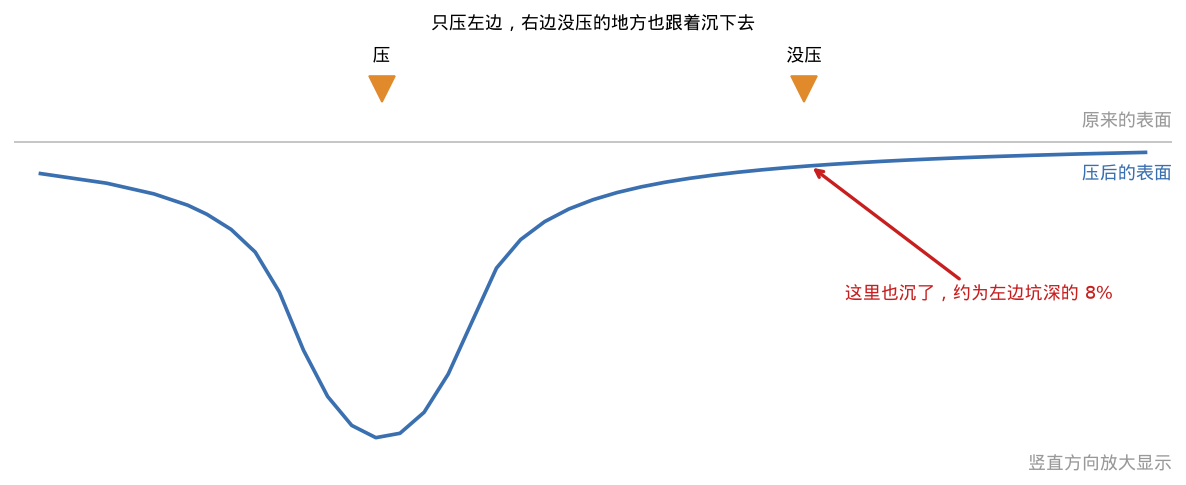
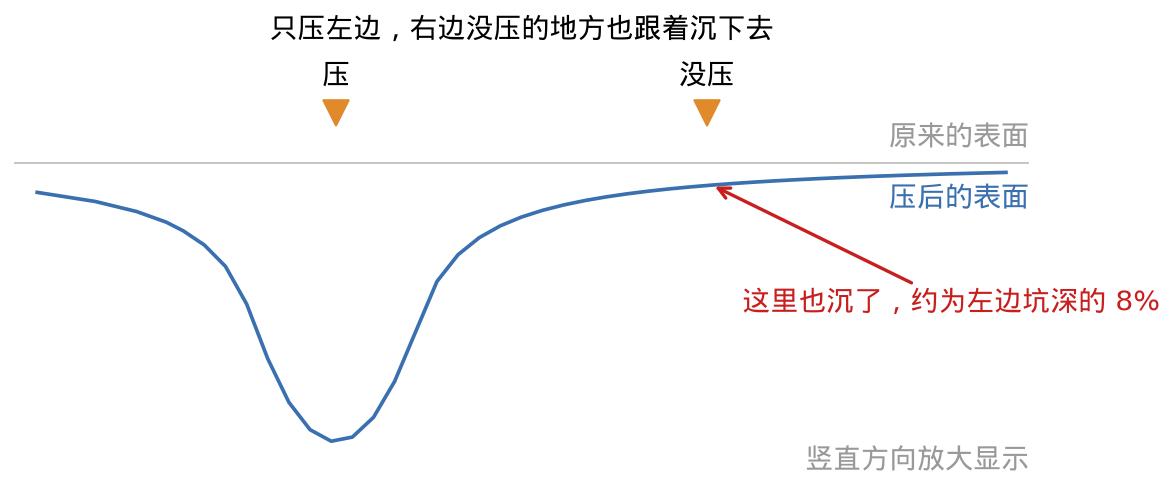
week3_4: t6a single-press profile re-rendered with larger text

diff --git a/week3_4.html b/week3_4.html
@@ -433,7 +433,7 @@ footer.foot { color: var(--muted); font-size: 0.8rem; border-top: 1px solid var(
 <figure style="margin:12px 0"><img src="assets/images/w34_t6p_pair4_scene.png" style="width:895px;max-width:100%;height:auto" alt="这张图展示死结的平底情形：一个刚性压头上两个平底凸台（半径 0.1，中心距 0.4，即接触半径的 4 倍）同时压同一块软块，压到最深一档（0.012）停稳后。左幅是过两凸台中心的竖直剖面，竖直方向放大 5 倍，两个凸台把块面压下同样深，两凸台之间那段块面也被一起带着往下沉，比外侧略低，这就是两处接触互相影响的来源。右幅从正上方看块顶面，灰点是块面网格点，粉色是每个凸台底下各自的接触区。红色是 IPC 实际施加了接触力的块节点：压头的点落在块的某个三角形上时，力按位置分到这个三角形的三个角；两条棱靠近时，力分到块那条棱的两端。所以红色区域比真正贴住的地方大一圈，大约一个网格单元，网格越粗这圈越宽。最深一档两个凸台下整面受力节点共 162 个；凸台外那一圈红点是凸台边缘压在块的三角形上带进来的，离凸台面最远约 0.027。凸台底面是半径 0.1 的圆，接触区画出来是不规则的多边形、两个凸台还略有不同：这是粗网格（凸台半径只有 4 个点距）上 IPC 真实的受力节点，不是凸台形状。" loading="lazy"><figcaption class="small">这张图展示死结的平底情形：一个刚性压头上两个平底凸台（半径 0.1，中心距 0.4，即接触半径的 4 倍）同时压同一块软块，压到最深一档（0.012）停稳后。左幅是过两凸台中心的竖直剖面，竖直方向放大 5 倍，两个凸台把块面压下同样深，两凸台之间那段块面也被一起带着往下沉，比外侧略低，这就是两处接触互相影响的来源。右幅从正上方看块顶面，灰点是块面网格点，粉色是每个凸台底下各自的接触区。红色是 IPC 实际施加了接触力的块节点：压头的点落在块的某个三角形上时，力按位置分到这个三角形的三个角；两条棱靠近时，力分到块那条棱的两端。所以红色区域比真正贴住的地方大一圈，大约一个网格单元，网格越粗这圈越宽。最深一档两个凸台下整面受力节点共 162 个；凸台外那一圈红点是凸台边缘压在块的三角形上带进来的，离凸台面最远约 0.027。凸台底面是半径 0.1 的圆，接触区画出来是不规则的多边形、两个凸台还略有不同：这是粗网格（凸台半径只有 4 个点距）上 IPC 真实的受力节点，不是凸台形状。</figcaption></figure>
 <figure style="margin:12px 0"><img src="assets/images/w34_t6p_single02_scene.png" style="width:895px;max-width:100%;height:auto" alt="这张图是死结里「只压一个」的那次计算：同一块、同一压深，只留右边凸台（x = 0.2），画法同上一张。和上一张比，右凸台底下的接触区一样大（最深一档整面受力节点 81 个），但剖面上左边的块面不再被压下去。成对时块面整体先被另一个凸台带着沉了一点，所以每个凸台分到的弹性能比单压时少：两个一起压的能量是单压的 1.72 倍而不是 2 倍，对应 c ≈ 0.861，边界元给 0.8606。" loading="lazy"><figcaption class="small">这张图是死结里「只压一个」的那次计算：同一块、同一压深，只留右边凸台（x = 0.2），画法同上一张。和上一张比，右凸台底下的接触区一样大（最深一档整面受力节点 81 个），但剖面上左边的块面不再被压下去。成对时块面整体先被另一个凸台带着沉了一点，所以每个凸台分到的弹性能比单压时少：两个一起压的能量是单压的 1.72 倍而不是 2 倍，对应 c ≈ 0.861，边界元给 0.8606。</figcaption></figure>
 <figure style="margin:12px 0"><img src="assets/images/w34_t6a_scene.png" style="width:543px;max-width:100%;height:auto" alt="这张图是两压头实验压之前过两个压头中心的剖面，竖直方向放大 8 倍。上面两个橙色软压头的底面都是半径 1 的球冠，球冠最低点刚好碰到下面的蓝色软块，两个压头中心相距 0.44（图中黑色尺寸线），块和压头的杨氏模量都是 1e5。后面的剖面图和剖线图都来自这一套几何，分别让两个压头一起压、只压左边一个。" loading="lazy"><figcaption class="small">这张图是两压头实验压之前过两个压头中心的剖面，竖直方向放大 8 倍。上面两个橙色软压头的底面都是半径 1 的球冠，球冠最低点刚好碰到下面的蓝色软块，两个压头中心相距 0.44（图中黑色尺寸线），块和压头的杨氏模量都是 1e5。后面的剖面图和剖线图都来自这一套几何，分别让两个压头一起压、只压左边一个。</figcaption></figure>
-<figure style="margin:12px 0"><img src="assets/images/w34_t6a_single_profile.png" style="width:657px;max-width:100%;height:auto" alt="这张图展示了只压一个压头时，旁边没压的地方也会跟着沉下去。实验是两个一样的软球冠压头（半径 1，杨氏模量 1e5）摆在一块同样软的块上，中心相距 0.44，只让左边那个往下压 0.012，蓝线是压完以后过两个压头中心的块表面，灰线是原来的表面，竖直方向放大显示（左边坑最深处只有 0.0055）。左边橙色三角下面压出一个坑；右边橙色三角下面没有压头，蓝线在那里仍然比灰线低，低了左边坑深的 8%。如果再把右边的压头压下去，它要达到同样的深度就可以少压这一段，存进去的能量也就比单独压时少，hydro 把两处分开算再相加，算不出这个差别。" loading="lazy"><figcaption class="small">这张图展示了只压一个压头时，旁边没压的地方也会跟着沉下去。实验是两个一样的软球冠压头（半径 1，杨氏模量 1e5）摆在一块同样软的块上，中心相距 0.44，只让左边那个往下压 0.012，蓝线是压完以后过两个压头中心的块表面，灰线是原来的表面，竖直方向放大显示（左边坑最深处只有 0.0055）。左边橙色三角下面压出一个坑；右边橙色三角下面没有压头，蓝线在那里仍然比灰线低，低了左边坑深的 8%。如果再把右边的压头压下去，它要达到同样的深度就可以少压这一段，存进去的能量也就比单独压时少，hydro 把两处分开算再相加，算不出这个差别。</figcaption></figure>
+<figure style="margin:12px 0"><img src="assets/images/w34_t6a_single_profile.png" style="width:653px;max-width:100%;height:auto" alt="这张图展示了只压一个压头时，旁边没压的地方也会跟着沉下去。实验是两个一样的软球冠压头（半径 1，杨氏模量 1e5）摆在一块同样软的块上，中心相距 0.44，只让左边那个往下压 0.012，蓝线是压完以后过两个压头中心的块表面，灰线是原来的表面，竖直方向放大显示（左边坑最深处只有 0.0055）。左边橙色三角下面压出一个坑；右边橙色三角下面没有压头，蓝线在那里仍然比灰线低，低了左边坑深的 8%。如果再把右边的压头压下去，它要达到同样的深度就可以少压这一段，存进去的能量也就比单独压时少，hydro 把两处分开算再相加，算不出这个差别。" loading="lazy"><figcaption class="small">这张图展示了只压一个压头时，旁边没压的地方也会跟着沉下去。实验是两个一样的软球冠压头（半径 1，杨氏模量 1e5）摆在一块同样软的块上，中心相距 0.44，只让左边那个往下压 0.012，蓝线是压完以后过两个压头中心的块表面，灰线是原来的表面，竖直方向放大显示（左边坑最深处只有 0.0055）。左边橙色三角下面压出一个坑；右边橙色三角下面没有压头，蓝线在那里仍然比灰线低，低了左边坑深的 8%。如果再把右边的压头压下去，它要达到同样的深度就可以少压这一段，存进去的能量也就比单独压时少，hydro 把两处分开算再相加，算不出这个差别。</figcaption></figure>
 <figure style="margin:12px 0"><img src="assets/images/w34_t6a_pair_pressed.png" style="width:543px;max-width:100%;height:auto" alt="这张图展示了两个压头同时压时，两个坑之间的块面也被一起带下去。图是上一张同一组实验让两个压头都压到 0.012 时，过两个压头中心的剖面，橙色是两个软压头，蓝色是块，竖直方向放大了 8 倍才看得清坑。两个坑底各沉了 0.0057，两坑正中间没有压头的地方也沉了 0.0020，约为坑深的三分之一，所以两处接触不能各算各的。" loading="lazy"><figcaption class="small">这张图展示了两个压头同时压时，两个坑之间的块面也被一起带下去。图是上一张同一组实验让两个压头都压到 0.012 时，过两个压头中心的剖面，橙色是两个软压头，蓝色是块，竖直方向放大了 8 倍才看得清坑。两个坑底各沉了 0.0057，两坑正中间没有压头的地方也沉了 0.0020，约为坑深的三分之一，所以两处接触不能各算各的。</figcaption></figure>
 <p><b>B hydro 至少错多少</b></p>
 
